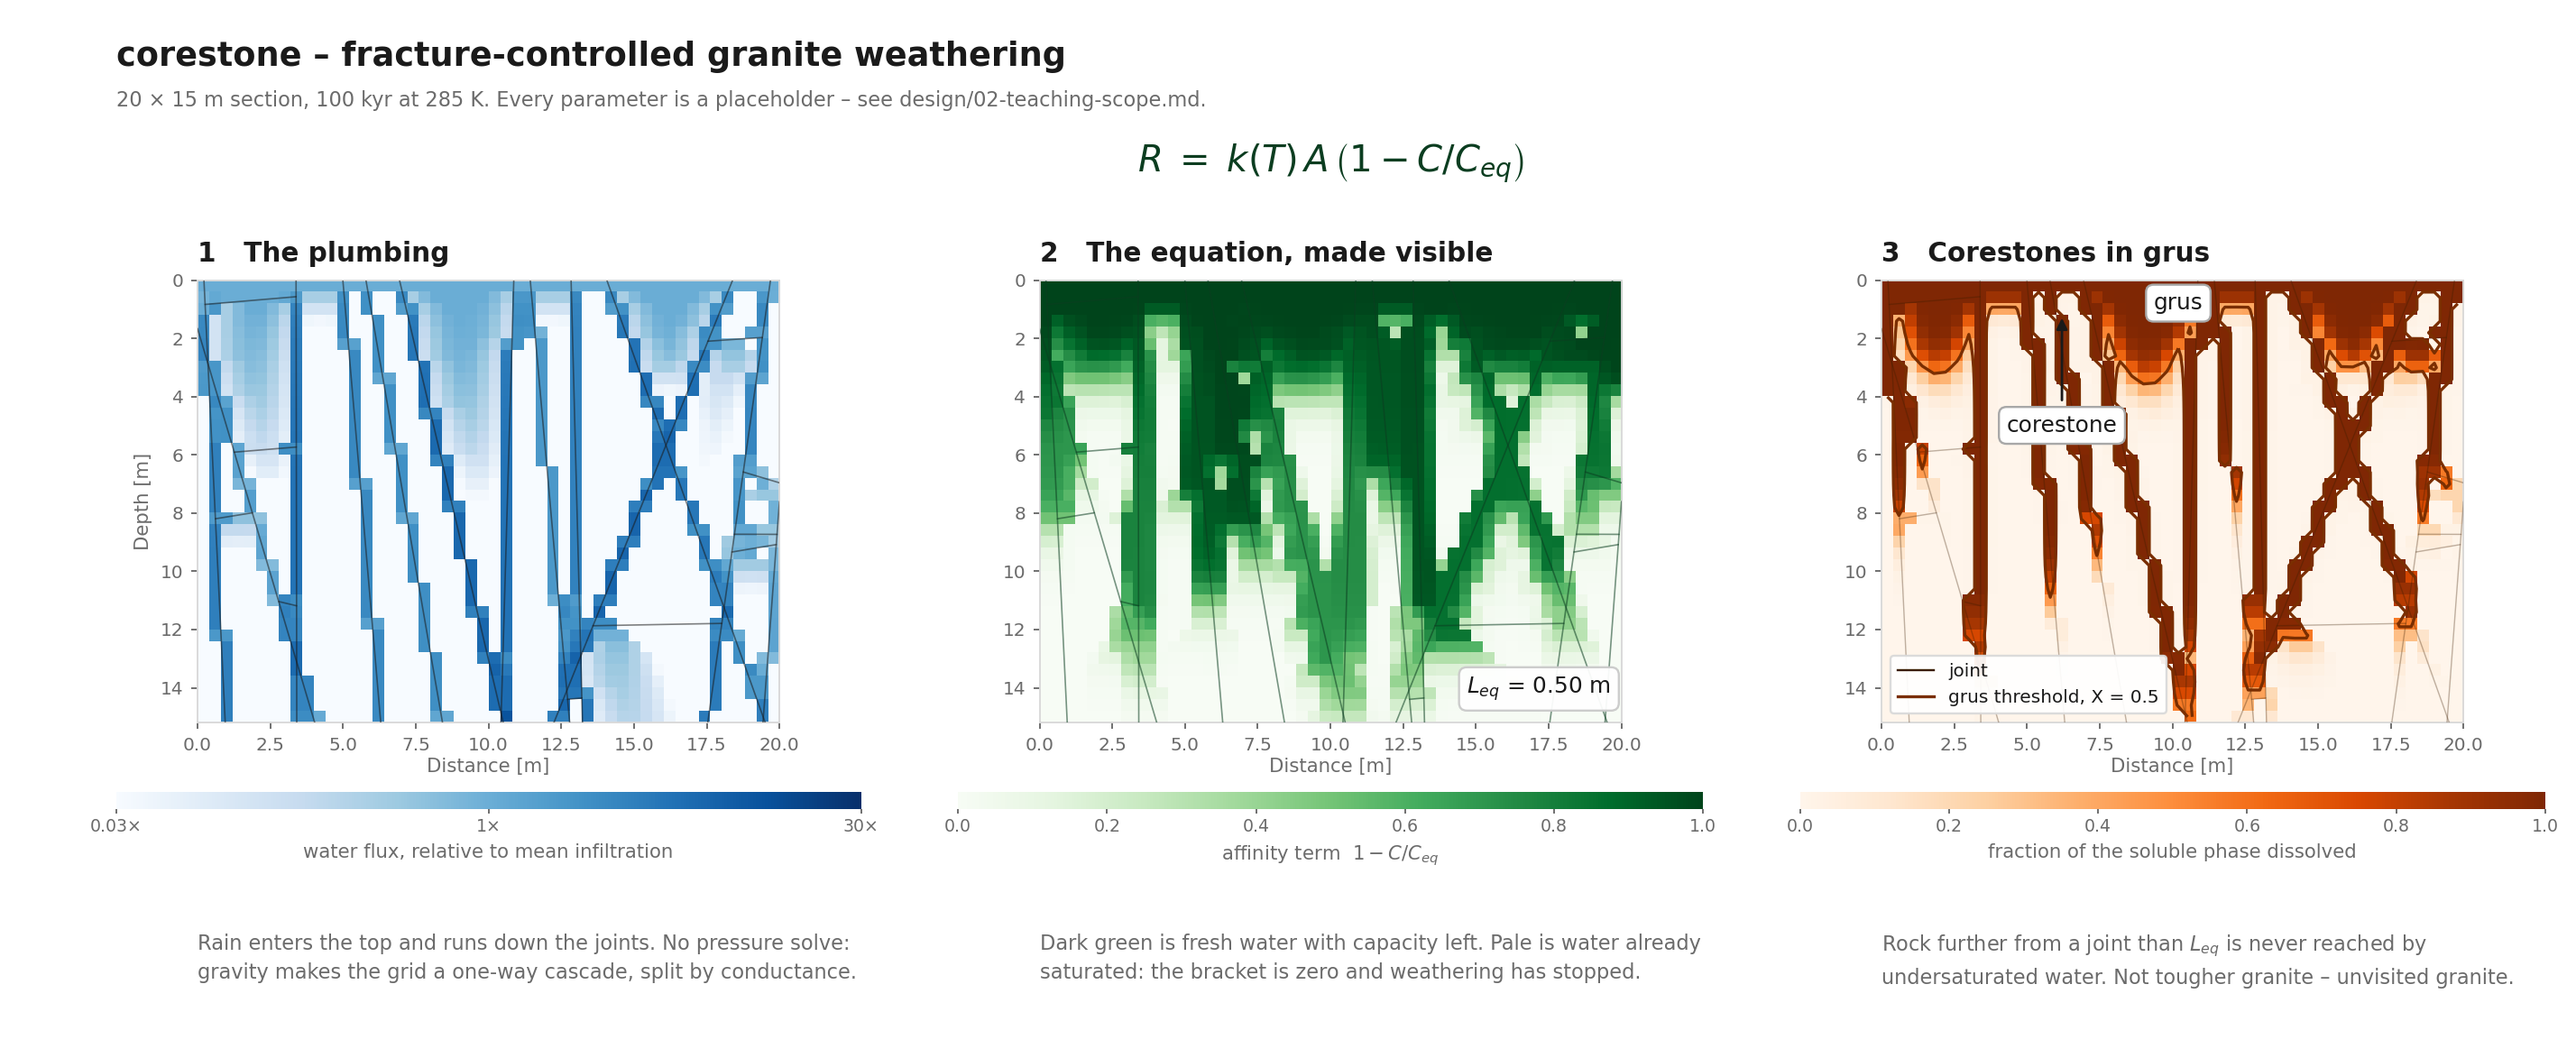
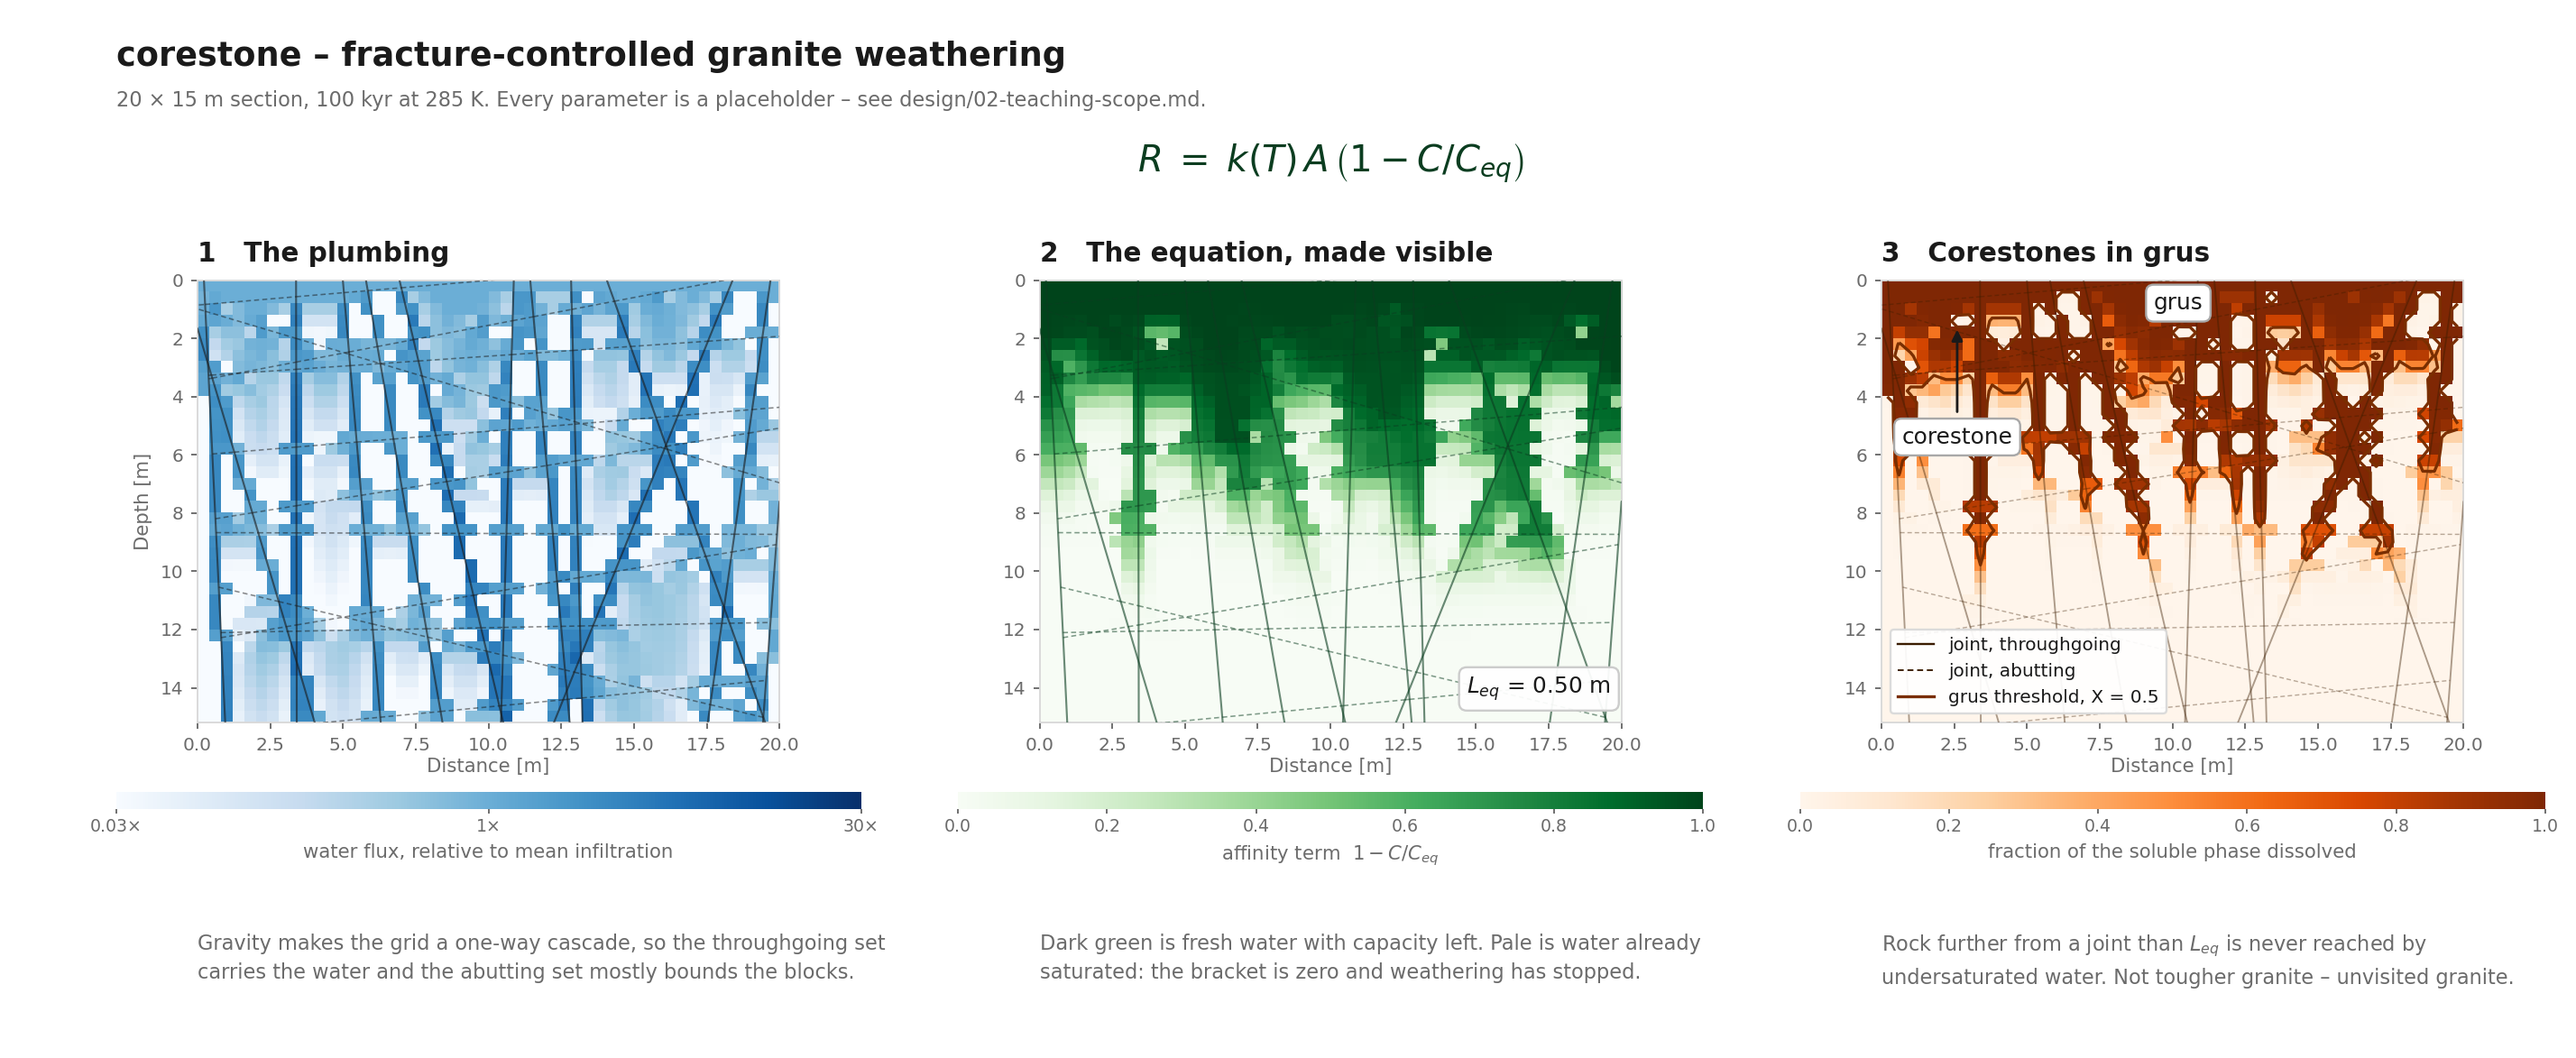
Sweep density in Probe C, and draw the two joint sets distinguishably
Probe C now reports fractopo's snapping failure instead of dying on it, which
is itself the finding at high density. The figure distinguishes throughgoing
from abutting joints by dash pattern as well as line weight, so the conjugate
structure is visible and the two are not told apart by colour alone.

Claude-Session: https://claude.ai/code/session_01GK97GLM82nSRs24mZhG3oc

diff --git a/prototypes/figure_draft.py b/prototypes/figure_draft.py
@@ -10,6 +10,8 @@ from matplotlib.gridspec import GridSpec
 from matplotlib.lines import Line2D
 from scipy.ndimage import uniform_filter
 
+from corestone import GRANITE_SETS
+
 src = open("prototypes/probe_b_weathering.py").read().split("fn = FractureNetwork")[0]
 M = {}
 exec(compile(src, "probe_b", "exec"), M)
@@ -18,7 +20,9 @@ NZ, NX, DX = M["NZ"], M["NX"], M["DX"]
 LX, LZ = NX * DX, NZ * DX
 KYR = 100.0
 
-fn = M["FractureNetwork"](NZ, NX, DX).seed(rng=np.random.default_rng(12345))
+fn_sets = GRANITE_SETS
+fn = M["FractureNetwork"](NZ, NX, DX).seed(sets=fn_sets,
+                                           rng=np.random.default_rng(12345))
 X, q, c = M["weather"](fn, years=KYR * 1e3, T=M["T_REF"])
 L_eq = M["equilibration_length"](M["T_REF"])
 
@@ -37,10 +41,19 @@ for a in axes[1:]:
 CAPTIONS = []
 
 
-def joints(ax, color="#1a1a1a", lw=0.7, alpha=0.55):
-    for p0, p1 in fn.segments:
-        ax.plot([p0[0], p1[0]], [p0[1], p1[1]], color=color, lw=lw,
-                alpha=alpha, solid_capstyle="round", zorder=3)
+def joints(ax, color="#1a1a1a", lw=0.9, alpha=0.6):
+    """
+    Draw the two sets distinguishably. Throughgoing joints are solid and
+    heavier; the abutting set is dashed. Distinguished by dash pattern as well
+    as weight, so the two are not told apart by colour alone.
+    """
+    for (p0, p1), name in zip(fn.segments, fn.segment_set):
+        through = name == fn_sets[0].name
+        ax.plot([p0[0], p1[0]], [p0[1], p1[1]], color=color,
+                lw=lw if through else lw * 0.75,
+                alpha=alpha if through else alpha * 0.85,
+                ls="-" if through else (0, (3.5, 2.2)),
+                solid_capstyle="round", zorder=3)
 
 
 def dress(ax, title, caption):
@@ -74,8 +87,8 @@ im = ax.imshow(np.log10(np.maximum(qn, 1e-3)), extent=EXT, origin="upper",
                cmap="Blues", vmin=-1.5, vmax=1.5, interpolation="nearest")
 joints(ax)
 dress(ax, "1   The plumbing",
-      "Rain enters the top and runs down the joints. No pressure solve:\n"
-      "gravity makes the grid a one-way cascade, split by conductance.")
+      "Gravity makes the grid a one-way cascade, so the throughgoing set\n"
+      "carries the water and the abutting set mostly bounds the blocks.")
 ax.set_ylabel("Depth [m]", color=MUTED, fontsize=9)
 bar(im, cbax[0], "water flux, relative to mean infiltration",
     ticks=[-1.5, 0, 1.5], ticklabels=["0.03×", "1×", "30×"])
@@ -102,7 +115,7 @@ xg = np.linspace(DX / 2, LX - DX / 2, NX)
 zg = np.linspace(DX / 2, LZ - DX / 2, NZ)
 ax.contour(xg, zg, X, levels=[M["X_GRUS"]], colors="#7a2e00", linewidths=1.4,
            zorder=4)
-joints(ax, color="#3a1c00", lw=0.6, alpha=0.32)
+joints(ax, color="#3a1c00", lw=0.8, alpha=0.42)
 dress(ax, "3   Corestones in grus",
       "Rock further from a joint than $L_{eq}$ is never reached by\n"
       "undersaturated water. Not tougher granite – unvisited granite.")
@@ -129,7 +142,10 @@ for (iz, ix), label, off in ((core, "corestone", 4.2), (gi, "grus", -3.4)):
                 arrowprops=dict(arrowstyle="-|>", color=INK, lw=1.2,
                                 shrinkA=3, shrinkB=4))
 
-ax.legend(handles=[Line2D([0], [0], color="#3a1c00", lw=1.0, label="joint"),
+ax.legend(handles=[Line2D([0], [0], color="#3a1c00", lw=1.0,
+                          label="joint, throughgoing"),
+                   Line2D([0], [0], color="#3a1c00", lw=0.8,
+                          ls=(0, (3.5, 2.2)), label="joint, abutting"),
                    Line2D([0], [0], color="#7a2e00", lw=1.4,
                           label="grus threshold, X = %.1f" % M["X_GRUS"])],
           loc="lower left", fontsize=8.5, frameon=True, framealpha=0.93,

diff --git a/prototypes/probe_c_topology.py b/prototypes/probe_c_topology.py
@@ -37,11 +37,21 @@ def topology(fn, name):
     gdf = gpd.GeoDataFrame(geometry=traces)
     area = gpd.GeoDataFrame(
         geometry=[Polygon([(0, 0), (LX, 0), (LX, LZ), (0, LZ)])])
-    net = Network(gdf, area, name=name, determine_branches_nodes=True,
-                  snap_threshold=0.01 * DX, truncate_traces=True)
-    n = net.node_counts
-    interior = n["X"] + n["Y"] + n["I"]
+    # Abutting traces terminate exactly on their host, so many endpoints are
+    # coincident. fractopo's snapping needs a threshold that is neither so
+    # tight that it loops nor so loose that it merges distinct nodes.
     d = fn.distance_to_fracture()
+    try:
+        net = Network(gdf, area, name=name, determine_branches_nodes=True,
+                      snap_threshold=0.05 * DX, truncate_traces=True)
+        n = net.node_counts
+    except RecursionError:
+        # fractopo's snapping does not converge when very many traces
+        # terminate on exactly the same host points. Report it; do not hide it.
+        print(f"{name:26s} traces {len(traces):3d}  P21 {fn.p21:5.2f}   "
+              f"fractopo: snapping did not converge   "
+              f"median d {np.median(d):.2f} m  p90 {np.percentile(d, 90):.2f} m")
+        return
     print(f"{name:26s} traces {len(traces):3d}  P21 {fn.p21:5.2f}   "
           f"X {n['X']:3d}  Y {n['Y']:3d}  I {n['I']:3d}   "
           f"Y/(Y+I) {n['Y'] / max(n['Y'] + n['I'], 1):5.2f}   "
@@ -65,5 +75,8 @@ topology(FractureNetwork(NZ, NX, DX).seed(sets=conjugate_sets(90., 0.), rng=rng(
 topology(FractureNetwork(NZ, NX, DX).seed(sets=conjugate_sets(45., -45.), rng=rng()),
          "conjugate +/-45, abutting")
 topology(FractureNetwork(NZ, NX, DX).seed(
-             sets=conjugate_sets(90., 0., spacing=0.8), rng=rng()),
-         "conjugate 90/0, S = 0.8 m")
+             sets=conjugate_sets(90., 0., density=0.6), rng=rng()),
+         "conjugate 90/0, density 0.6")
+topology(FractureNetwork(NZ, NX, DX).seed(
+             sets=conjugate_sets(90., 0., density=0.25), rng=rng()),
+         "conjugate 90/0, density 0.25")
